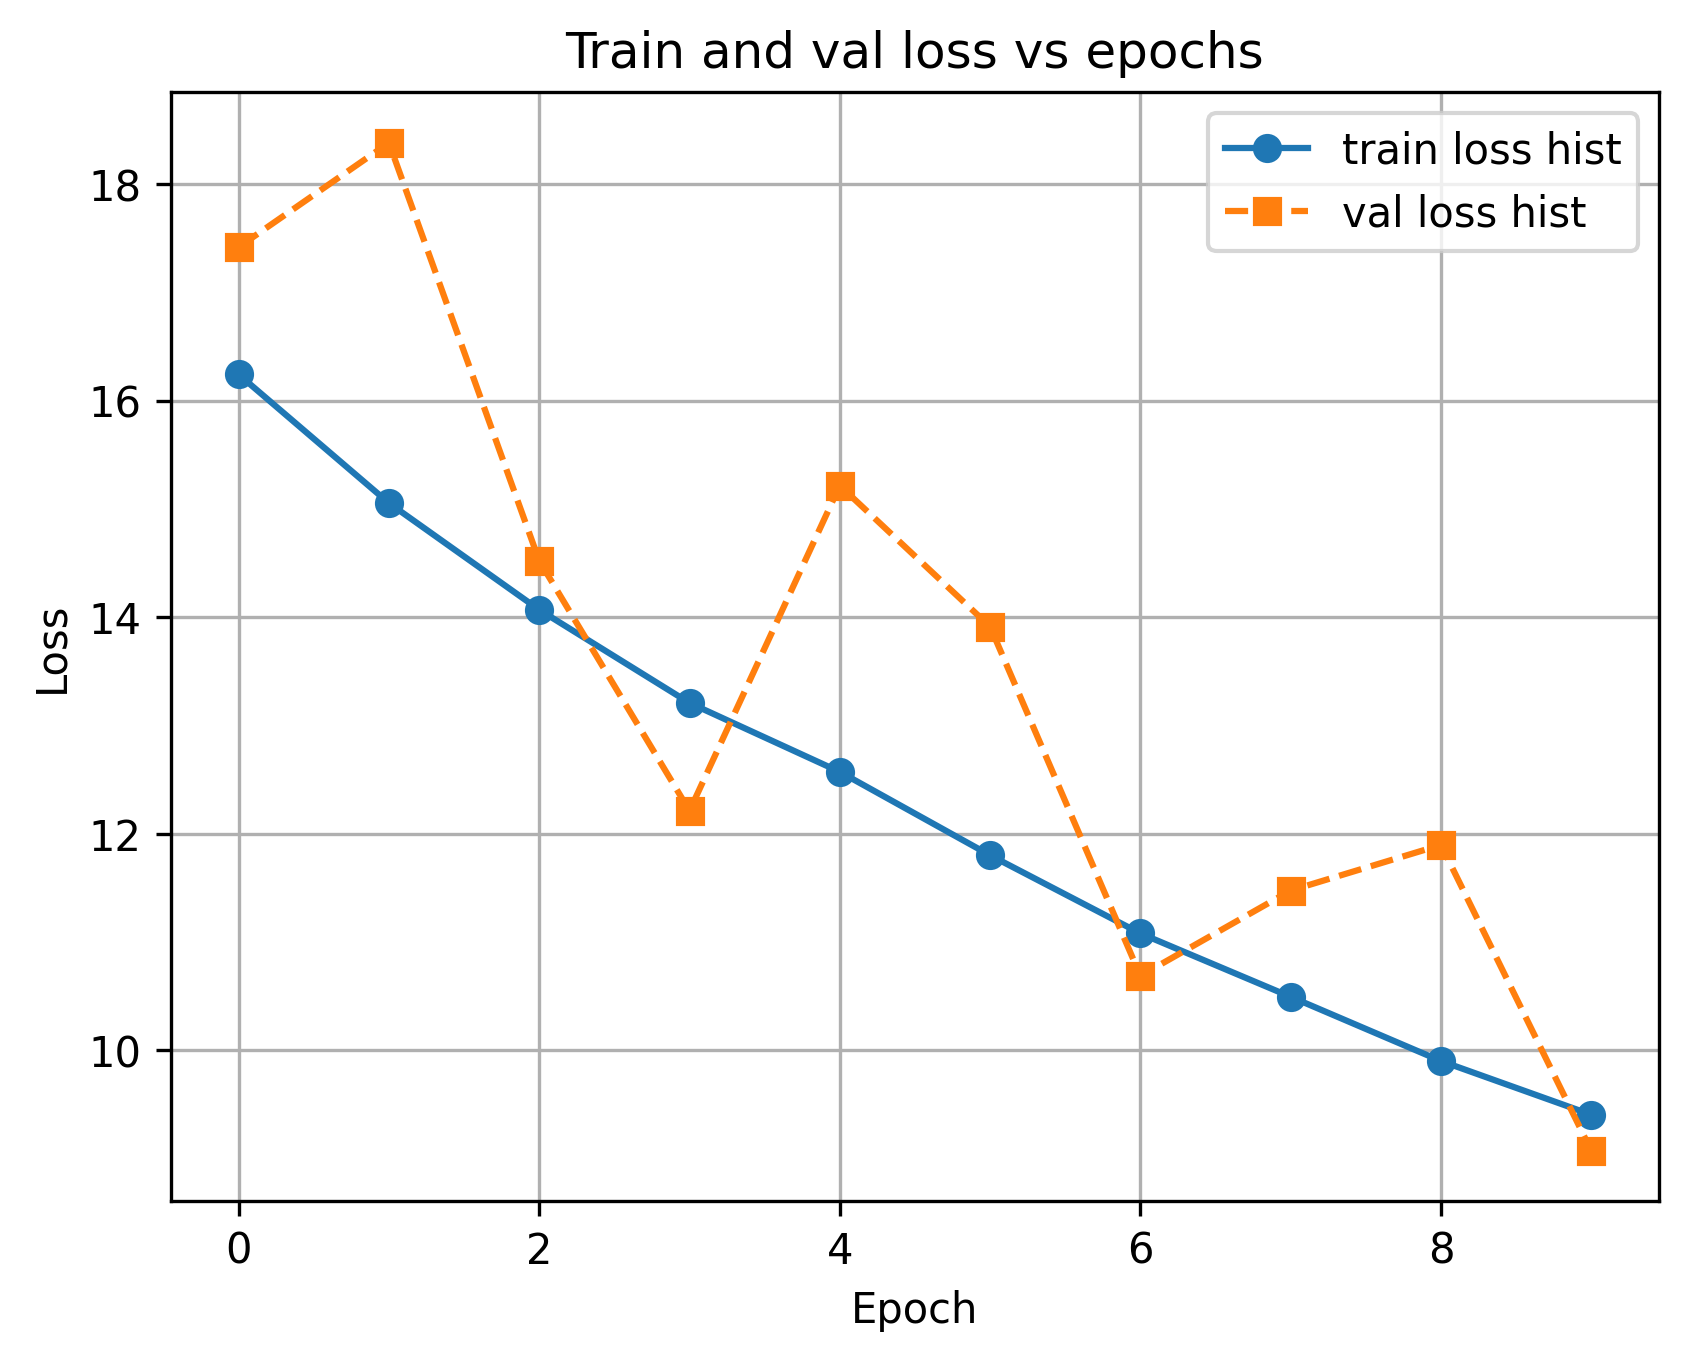
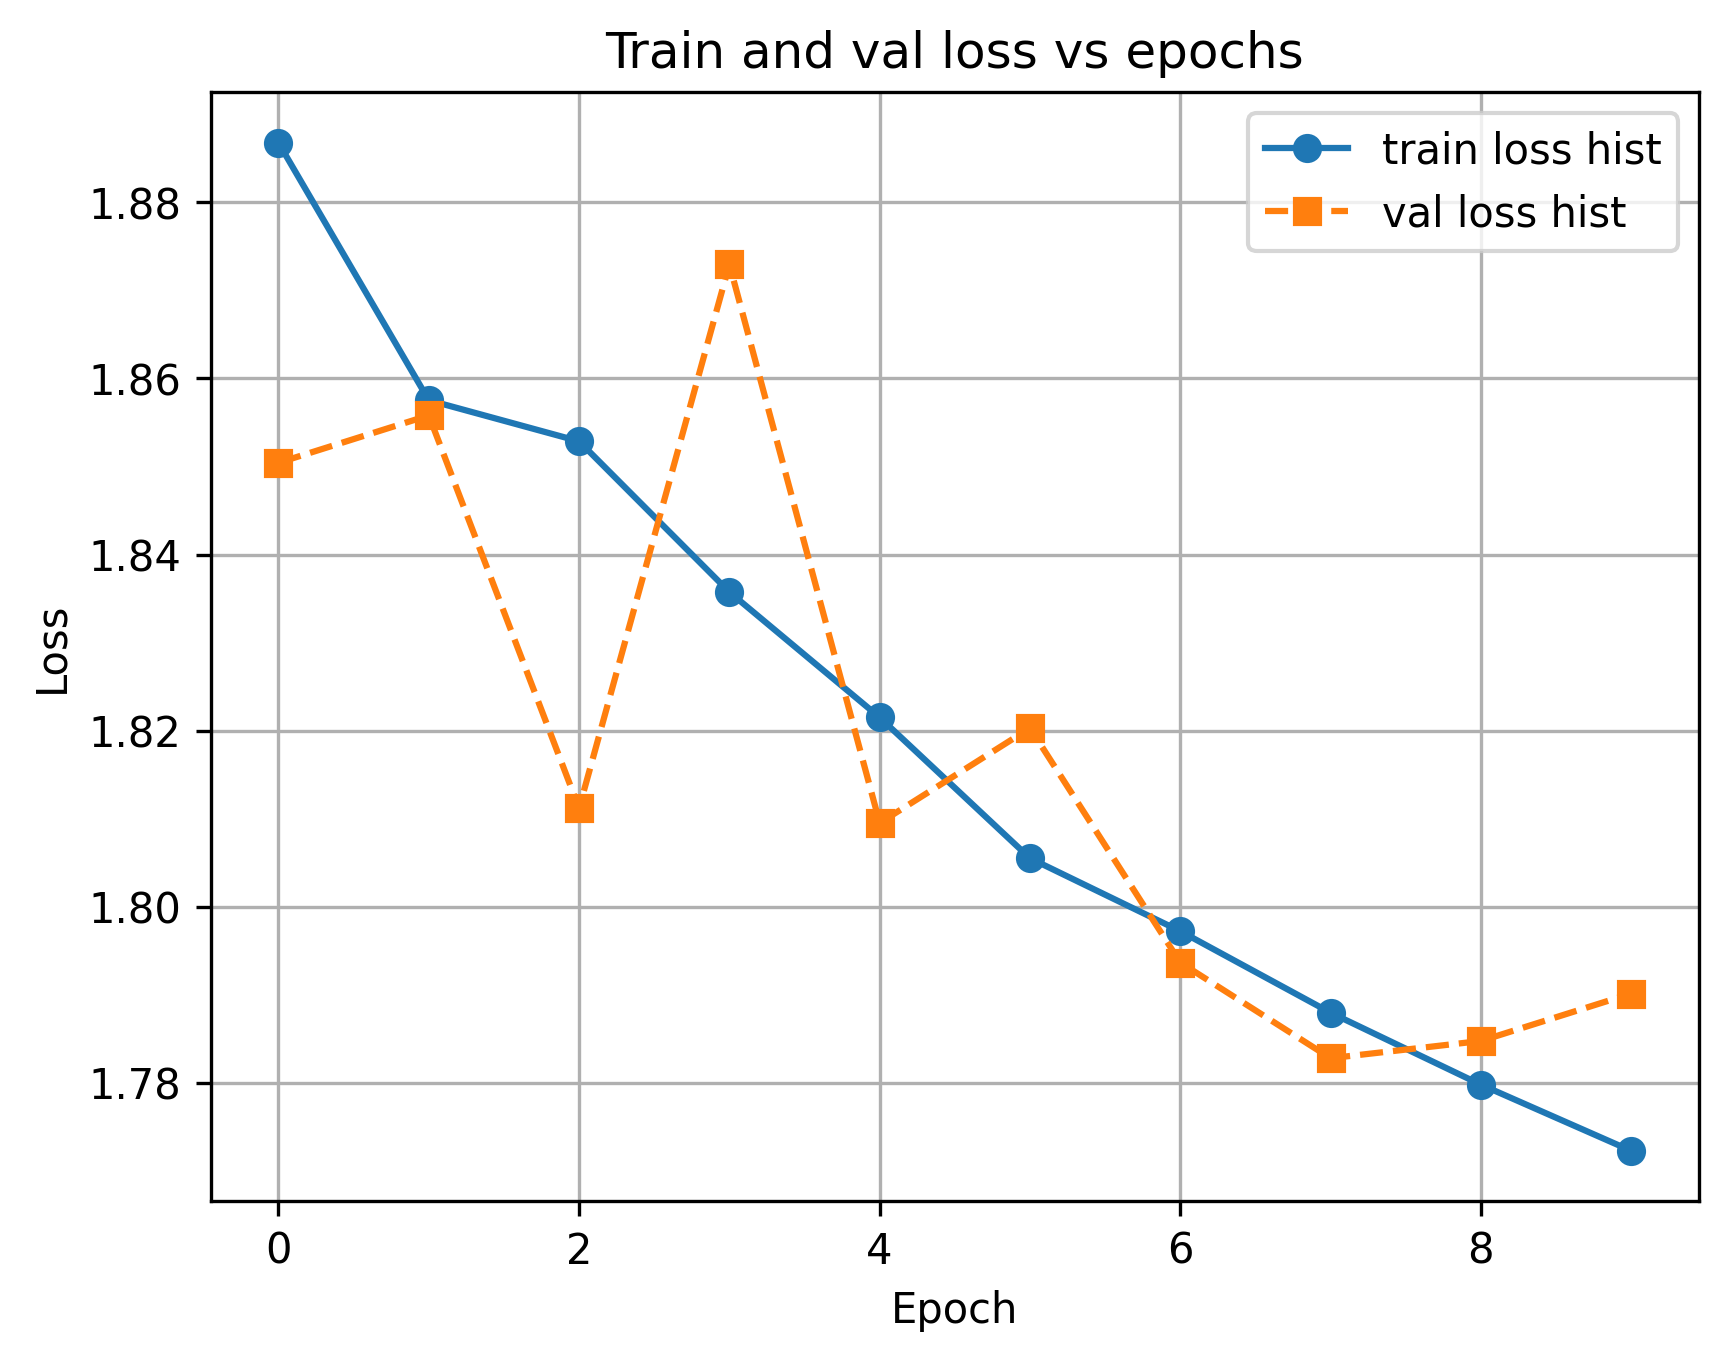
fix: optimizer now returns model state with best val loss in the training process, not model state after n_epochs of training

diff --git a/numpy_mlp.py b/numpy_mlp.py
@@ -2,6 +2,7 @@ import numpy as np
 import random
 from utilities import preprocess_dataset_for
 import matplotlib.pyplot as plt
+import copy
 
 
 class MLP ():
@@ -173,6 +174,9 @@ def train_model_with_SGD (model,
     train_loss_history = []
     val_loss_history = []
 
+    best_avg_epoch_loss = 1000
+    #best_model = copy.deepcopy(model)
+
     for epoch_index in range(1, n_epochs + 1):
 
         print (f"Epoch {epoch_index}/{n_epochs}")
@@ -208,9 +212,16 @@ def train_model_with_SGD (model,
         avg_val_loss = evaluate_model_on (model, validation_set)
         print (f"average val loss = {avg_val_loss:.5f}")
         val_loss_history.append(avg_val_loss)
-        print ("_" * 50)
+        
+        if avg_val_loss < best_avg_epoch_loss:
+            best_avg_epoch_loss = avg_val_loss
+            best_model = copy.deepcopy(model)
 
-    return model, train_loss_history, val_loss_history
+        print ("_" * 50)
+    if best_model is not None:
+        return best_model, train_loss_history, val_loss_history
+    else:
+        model, train_loss_history, val_loss_history
 
 def grid_search(hyperparameters: dict,
                 train_set: list,
@@ -281,12 +292,12 @@ np.set_printoptions(
 
 hyperparameters_to_tune = {
     #'lr': [0.01, 0.005, 0.001],
-    'lr': [0.01],
+    'lr': [0.015],
     'lr_multiplier': [0.95],
     #'hidden_dim': [32, 64, 128],
     'hidden_dim': [8],
     #'n_layers': [1, 4, 7]
-    'n_layers': [1]
+    'n_layers': [3]
     }
 
 N_EPOCHS = 10
